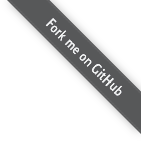
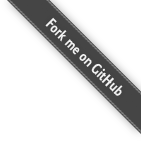
More work on web site

diff --git a/site/stasis.css.scss b/site/stasis.css.scss
@@ -38,16 +38,26 @@ ul {
     display: inline;
     line-height: 25px;
     padding: 0 9px;
+
+    a.selected {
+      color: #06599E;
+      font-weight: 700;
+    }
   }
 }
 
 #github {
   position: fixed;
   height: 141px;
+  opacity: 0.5;
   right: 0;
   top: 25px;
   width: 141px;
   z-index: 10000;
+}
+
+#github:hover {
+  opacity: 1;
 }
 
 #title {
